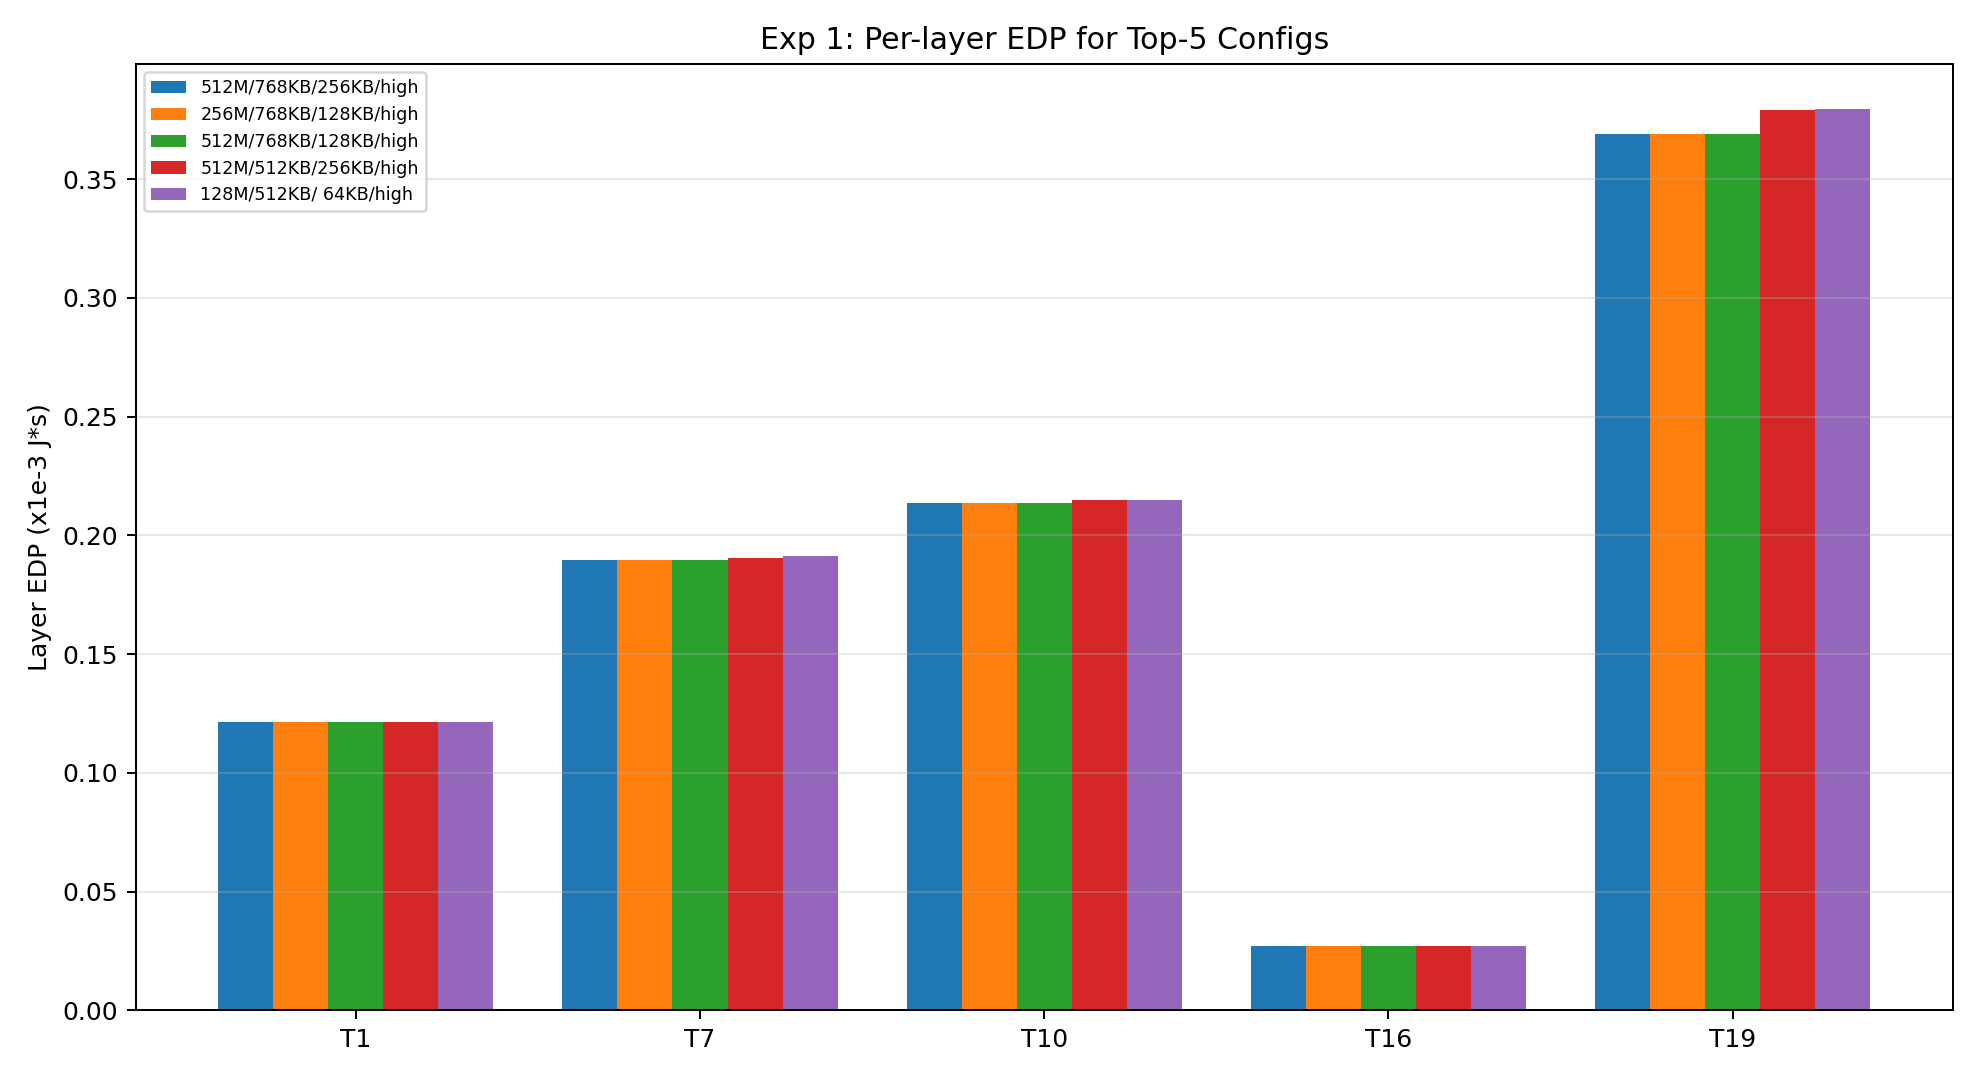
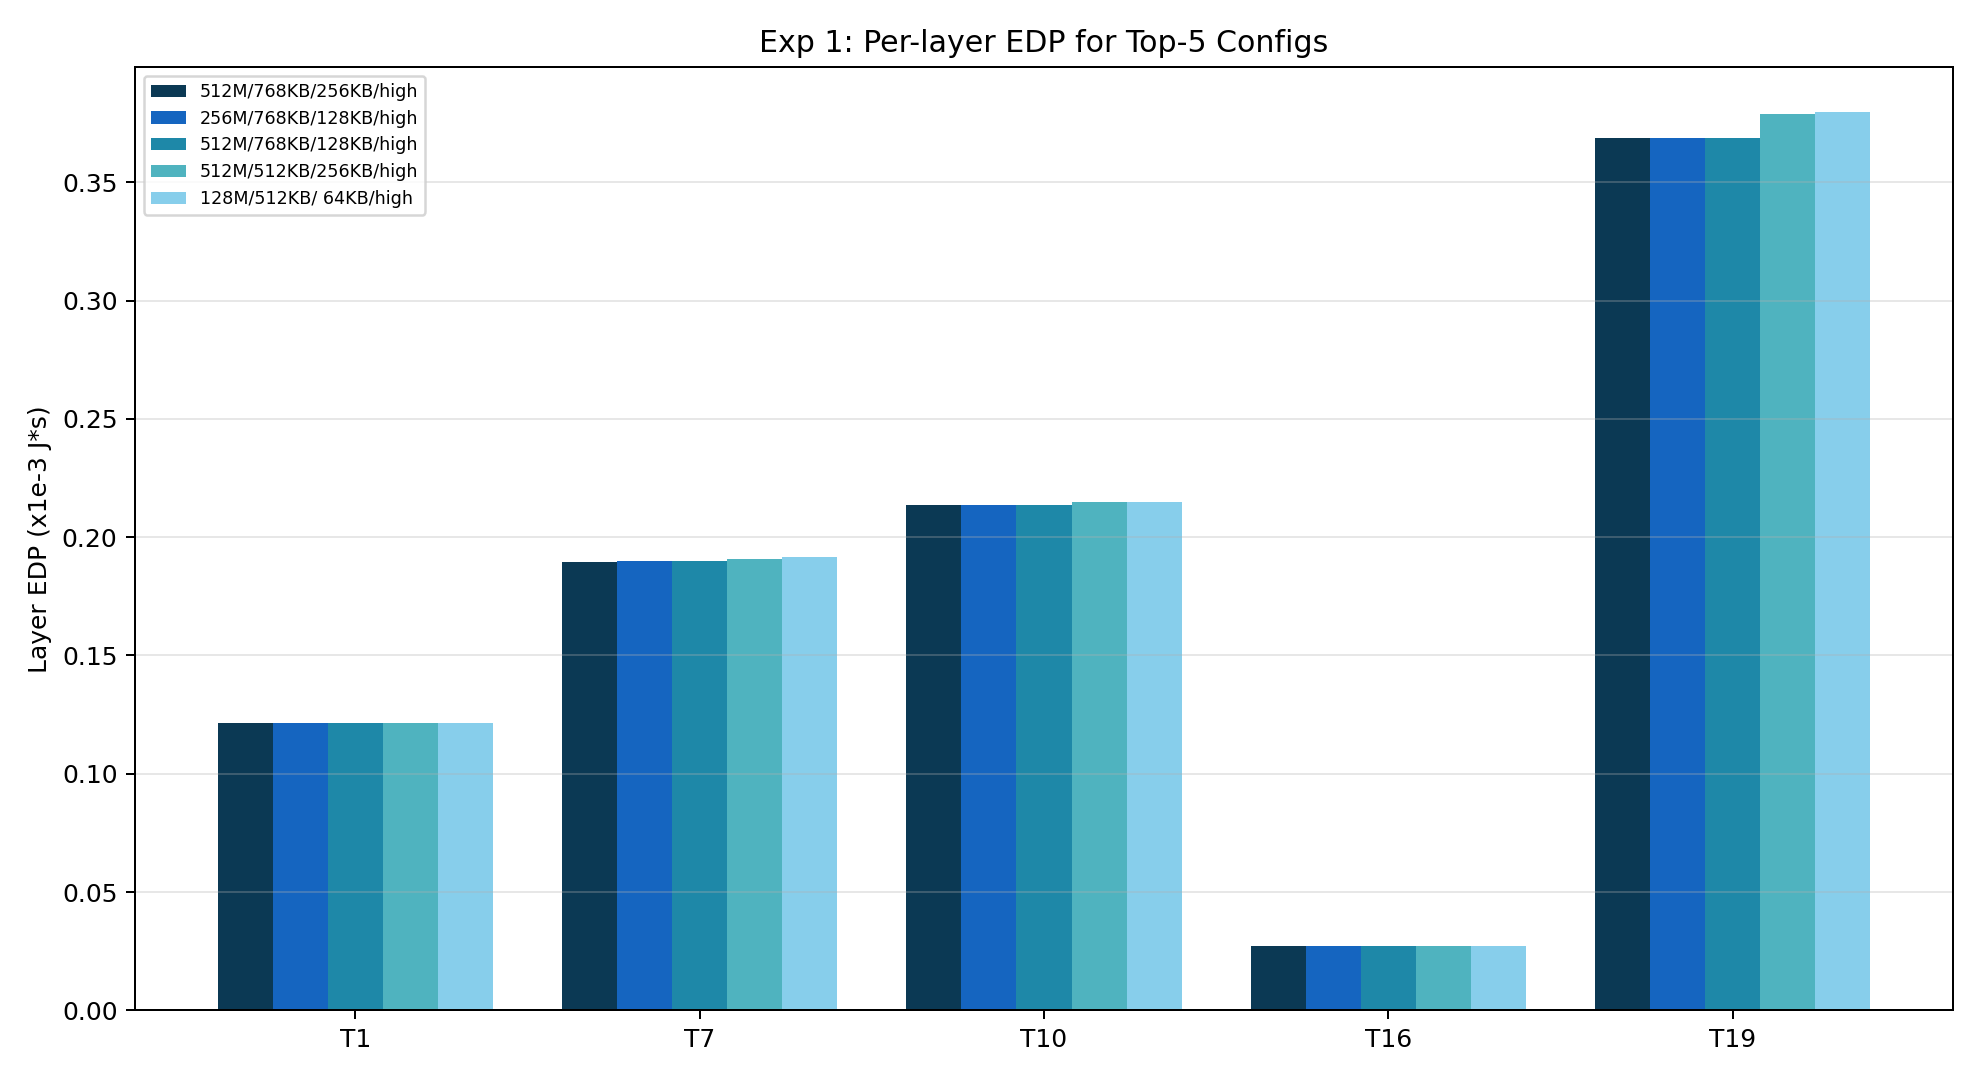
improve all plots

diff --git a/milestone_2/plot_final_results.py b/milestone_2/plot_final_results.py
@@ -31,6 +31,10 @@ def _short(label: str) -> str:
     return label.replace("high_end_embedded", "high").replace("deep_embedded", "deep")
 
 
+# Ocean palette (deep -> shallow)
+OCEAN = ["#0B3954", "#1565C0", "#1E88A8", "#4FB3BF", "#87CEEB", "#B8E0E8"]
+
+
 def plot_exp1(exp1_path: Path, out_dir: Path) -> None:
     d = json.loads(exp1_path.read_text())
     cfgs = d["configs"]
@@ -44,26 +48,58 @@ def plot_exp1(exp1_path: Path, out_dir: Path) -> None:
 
     # Figure 1: best configs by EDP
     fig, ax = plt.subplots(figsize=(11, 7))
-    ax.barh(labels[::-1], edp_ms[::-1], color="#4C78A8")
+    ax.barh(labels[::-1], edp_ms[::-1], color=OCEAN[1])
+    best_edp = float(edp_ms.min())
+    ax.axvline(best_edp, linestyle="--", color=OCEAN[0], linewidth=1.5,
+               label=f"Best EDP = {best_edp:.2f} x1e-3 J*s")
+    ax.set_xlim(left=4.0)
     ax.set_xlabel("EDP (x1e-3 J*s)")
     ax.set_title("Exp 1: Top Configurations by EDP (lower is better)")
     ax.grid(axis="x", alpha=0.3)
+    ax.legend(loc="lower right")
     fig.tight_layout()
     fig.savefig(out_dir / "exp1_top_edp_bar.png", dpi=180)
     plt.close(fig)
 
-    # Figure 2: area vs EDP colored by power
+    # Figure 2: area vs EDP, marker = num_macs, color = power bin
+    macs = np.array([c["num_macs"] for c in top])
+    marker_map = {32: "o", 64: "s", 128: "^", 192: "D", 256: "v", 512: "P", 1024: "X"}
+    p_min, p_max = float(pwr.min()), float(pwr.max())
+    # Three uniform-width power bins across observed range
+    edges = np.linspace(p_min, p_max, 4)
+    bin_idx = np.clip(np.digitize(pwr, edges[1:-1]), 0, 2)
+    bin_colors = ["#3b528b", "#21918c", "#fde725"]  # viridis-like
+    bin_labels = [
+        f"{edges[0]:.0f}-{edges[1]:.0f} mW",
+        f"{edges[1]:.0f}-{edges[2]:.0f} mW",
+        f"{edges[2]:.0f}-{edges[3]:.0f} mW",
+    ]
+
     fig, ax = plt.subplots(figsize=(8, 6))
-    sc = ax.scatter(area, edp_ms, c=pwr, cmap="viridis", s=90, edgecolor="black", linewidth=0.4)
-    for c in top:
-        ax.annotate(f"{c['num_macs']}M", (c["area_mm2"], c["total_edp"] * 1e3), fontsize=7, xytext=(3, 3),
-                    textcoords="offset points")
+    seen_macs, seen_bins = set(), set()
+    for a, e, m, b in zip(area, edp_ms, macs, bin_idx):
+        ax.scatter(a, e, marker=marker_map.get(m, "o"), c=bin_colors[b],
+                   s=110, edgecolor="black", linewidth=0.5)
+        seen_macs.add(int(m))
+        seen_bins.add(int(b))
     ax.set_xlabel("Area (mm^2)")
     ax.set_ylabel("EDP (x1e-3 J*s)")
-    ax.set_title("Exp 1: Area-EDP Tradeoff (color = avg power)")
+    ax.set_title("Exp 1: Area-EDP Tradeoff")
     ax.grid(alpha=0.25)
-    cbar = fig.colorbar(sc, ax=ax)
-    cbar.set_label("Avg Power (mW)")
+
+    mac_handles = [plt.Line2D([0], [0], marker=marker_map.get(m, "o"), color="w",
+                              markerfacecolor="lightgray", markeredgecolor="black",
+                              markersize=10, label=f"{m} MACs")
+                   for m in sorted(seen_macs)]
+    pwr_handles = [plt.Line2D([0], [0], marker="o", color="w",
+                              markerfacecolor=bin_colors[b], markeredgecolor="black",
+                              markersize=10, label=bin_labels[b])
+                   for b in sorted(seen_bins)]
+    leg1 = ax.legend(handles=mac_handles, title="MAC count", loc="upper right", fontsize=8)
+    ax.add_artist(leg1)
+    ax.legend(handles=pwr_handles, title="Avg Power", loc="upper right",
+              bbox_to_anchor=(1.0, 0.65), fontsize=8)
+
     fig.tight_layout()
     fig.savefig(out_dir / "exp1_area_edp_power_scatter.png", dpi=180)
     plt.close(fig)
@@ -78,7 +114,7 @@ def plot_exp1(exp1_path: Path, out_dir: Path) -> None:
     for i, c in enumerate(top5):
         layer_map = {l["layer_idx"]: l["edp"] * 1e3 for l in c["layers"]}
         y = [layer_map.get(lid, 0.0) for lid in layer_ids]
-        ax.bar(x + (i - 2) * w, y, width=w, label=_short(c["label"]))
+        ax.bar(x + (i - 2) * w, y, width=w, label=_short(c["label"]), color=OCEAN[i])
     ax.set_xticks(x)
     ax.set_xticklabels([f"T{lid}" for lid in layer_ids])
     ax.set_ylabel("Layer EDP (x1e-3 J*s)")
@@ -97,9 +133,9 @@ def plot_exp2(exp2_path: Path, out_dir: Path) -> None:
 
     # Figure 1: raw EDP/MAC vs resolution
     fig, ax = plt.subplots(figsize=(9, 6))
-    for hw_name, hw in d.items():
+    for i, (hw_name, hw) in enumerate(d.items()):
         y = [hw["by_resolution"][r]["edp_per_mac"] for r in res_str]
-        ax.plot(res, y, marker="o", linewidth=2, label=hw_name)
+        ax.plot(res, y, marker="o", linewidth=2, label=hw_name, color=OCEAN[i % len(OCEAN)])
     ax.invert_xaxis()
     ax.set_xlabel("Input Resolution")
     ax.set_ylabel("EDP per MAC")
@@ -112,10 +148,10 @@ def plot_exp2(exp2_path: Path, out_dir: Path) -> None:
 
     # Figure 2: normalized vs 640
     fig, ax = plt.subplots(figsize=(9, 6))
-    for hw_name, hw in d.items():
+    for i, (hw_name, hw) in enumerate(d.items()):
         base = hw["by_resolution"]["640"]["edp_per_mac"]
         y = [hw["by_resolution"][r]["edp_per_mac"] / base for r in res_str]
-        ax.plot(res, y, marker="o", linewidth=2, label=hw_name)
+        ax.plot(res, y, marker="o", linewidth=2, label=hw_name, color=OCEAN[i % len(OCEAN)])
     ax.axhline(1.0, linestyle="--", color="gray", linewidth=1)
     ax.invert_xaxis()
     ax.set_xlabel("Input Resolution")
@@ -129,12 +165,13 @@ def plot_exp2(exp2_path: Path, out_dir: Path) -> None:
 
     # Figure 3: per-layer latency speedup
     fig, ax = plt.subplots(figsize=(10, 6))
-    for hw_name, hw in d.items():
+    for i, (hw_name, hw) in enumerate(d.items()):
         l640 = {l["layer_idx"]: l for l in hw["by_resolution"]["640"]["layers"]}
         l320 = {l["layer_idx"]: l for l in hw["by_resolution"]["320"]["layers"]}
         ids = sorted(set(l640) & set(l320))
-        speedup = [l640[i]["latency_s"] / l320[i]["latency_s"] for i in ids]
-        ax.plot([f"T{i}" for i in ids], speedup, marker="o", linewidth=2, label=hw_name)
+        speedup = [l640[j]["latency_s"] / l320[j]["latency_s"] for j in ids]
+        ax.plot([f"T{j}" for j in ids], speedup, marker="o", linewidth=2,
+                label=hw_name, color=OCEAN[i % len(OCEAN)])
     ax.axhline(1.0, linestyle="--", color="gray", linewidth=1)
     ax.set_ylabel("Latency speedup (640/320)")
     ax.set_title("Exp 2: Per-layer Latency Speedup from 320px")
@@ -195,18 +232,34 @@ def plot_exp3(exp3_path: Path, out_dir: Path) -> None:
         au.append(cell["best"]["area_utilization"])
         pu.append(cell["best"]["power_utilization"])
 
+    # Bin cells by power cap: high-power (500 mW) vs low-power (50/100 mW)
+    def _is_high(k: str) -> bool:
+        return k.endswith("_500")
+
+    high_area, high_pwr = OCEAN[0], OCEAN[1]   # deep navy / ocean blue
+    low_area, low_pwr = OCEAN[2], OCEAN[3]     # teal / aqua
+    area_colors = [high_area if _is_high(k) else low_area for k in keys]
+    pwr_colors = [high_pwr if _is_high(k) else low_pwr for k in keys]
+
     x = np.arange(len(keys))
     w = 0.38
     fig, ax = plt.subplots(figsize=(11, 5))
-    ax.bar(x - w / 2, au, width=w, label="Area utilization")
-    ax.bar(x + w / 2, pu, width=w, label="Power utilization")
+    ax.bar(x - w / 2, au, width=w, color=area_colors)
+    ax.bar(x + w / 2, pu, width=w, color=pwr_colors)
     ax.axhline(1.0, linestyle="--", color="gray", linewidth=1)
     ax.set_xticks(x)
     ax.set_xticklabels(keys, rotation=45, ha="right")
     ax.set_ylabel("Utilization (fraction of cap)")
     ax.set_title("Exp 3: Constraint Utilization by Budget Cell")
     ax.grid(axis="y", alpha=0.3)
-    ax.legend()
+
+    legend_handles = [
+        plt.Rectangle((0, 0), 1, 1, color=high_area, label="Area util (500 mW cap)"),
+        plt.Rectangle((0, 0), 1, 1, color=high_pwr, label="Power util (500 mW cap)"),
+        plt.Rectangle((0, 0), 1, 1, color=low_area, label="Area util (50/100 mW cap)"),
+        plt.Rectangle((0, 0), 1, 1, color=low_pwr, label="Power util (50/100 mW cap)"),
+    ]
+    ax.legend(handles=legend_handles, fontsize=8, loc="upper left")
     fig.tight_layout()
     fig.savefig(out_dir / "exp3_constraint_utilization.png", dpi=180)
     plt.close(fig)
